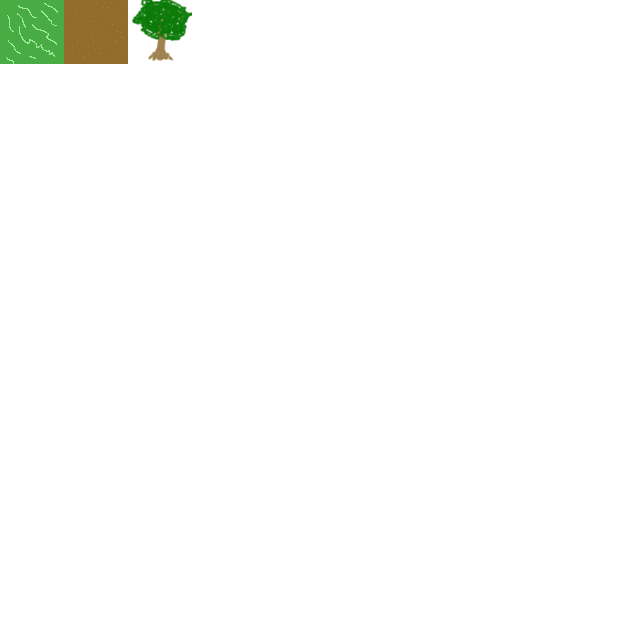
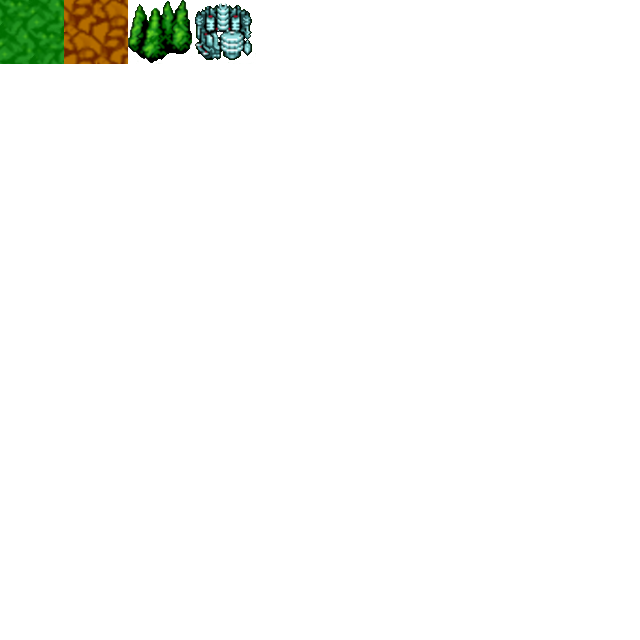
Update tiles and add multi-layer map generation

Changed region(s): [[0.0, 0.0, 0.4062, 0.125]]

diff --git a/src/game/screen.js b/src/game/screen.js
@@ -10,9 +10,7 @@ export class Screen {
         this.tiles = new Image()
         this.tiles.src = 'images/tiles.png'
         this.isTilesLoaded = false
-        this.tiles.onload = () => {
-            this.isTilesLoaded = true
-        }
+        this.tiles.onload = () => this.isTilesLoaded = true
 
         document.body.prepend(this.canvas)
     }
@@ -28,22 +26,24 @@ export class Screen {
         this.context.fillText(text, x, y)
     }
 
-    createMap(dataMap, tileset) {
+    createMap(mapData, tileset) {
         const mapImage = document.createElement('canvas')
         const mapContext = mapImage.getContext('2d')
-        mapImage.width = 1280
-        mapImage.height = 1280
-        let col = 0, row = 0
-        dataMap.data.forEach(index => {
-            mapContext.drawImage(tileset.image, tileset.getSourceX(index), tileset.getSourceY(index), 64, 64, col * 64, row * 64, 64, 64)
-            col++
-            if (col > 19) {
-                col = 0
-                row++
-            }
+        mapImage.width = mapData.width * mapData.tileWidth
+        mapImage.height = mapData.height * mapData.tileHeight
+        mapData.layers.forEach(layer => {
+            let col = 0, row = 0
+            layer.data.forEach(index => {
+                mapContext.drawImage(tileset.image, tileset.getSourceX(index), tileset.getSourceY(index), mapData.tileWidth, mapData.tileHeight, col * mapData.tileWidth, row * mapData.tileHeight, mapData.tileWidth, mapData.tileHeight)
+                col++
+                if (col === mapData.width) {
+                    col = 0
+                    row++
+                }
+            })
         })
 
-        return new Sprite(mapImage, 0, 0, 1280, 1280)
+        return new Sprite(mapImage, 0, 0, mapImage.width, mapImage.height)
     }
 
     drawSprite(sprite) {

diff --git a/src/game/scenes/game-level.js b/src/game/scenes/game-level.js
@@ -3,12 +3,12 @@ import {SpriteSheet} from '../sprite-sheet'
 export class GameLevel {
     constructor(game) {
         this.game = game
-        this.dataMap = require('../maps/level-1.json')
+        this.mapData = require('../maps/world.json')
         this.tiles = new SpriteSheet(this.game.screen.tiles, 640, 640)
     }
 
     init() {
-        this.map = this.game.screen.createMap(this.dataMap, this.tiles)
+        this.map = this.game.screen.createMap(this.mapData, this.tiles)
         this.map.setXY(0, 0)
     }
 
